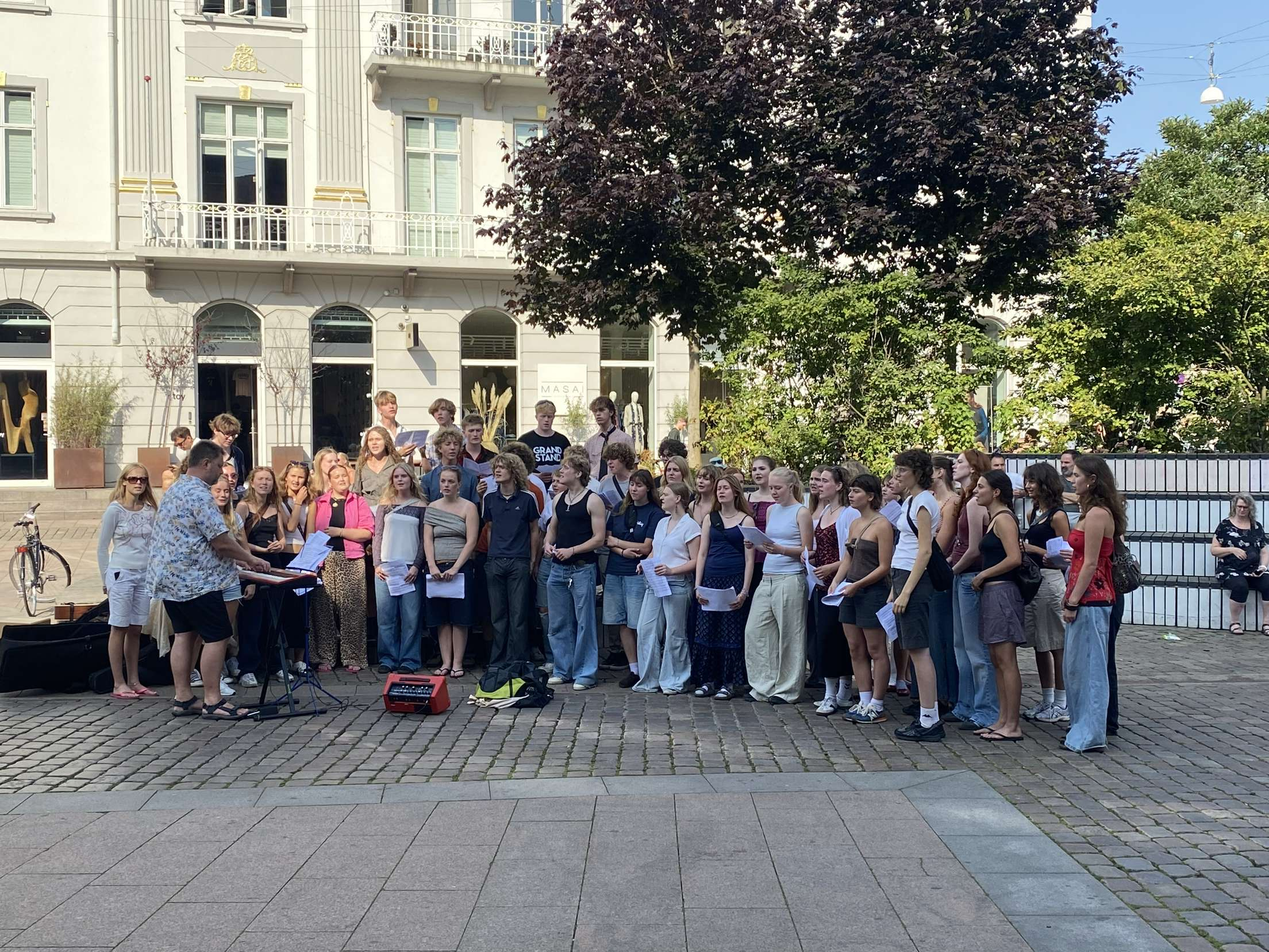
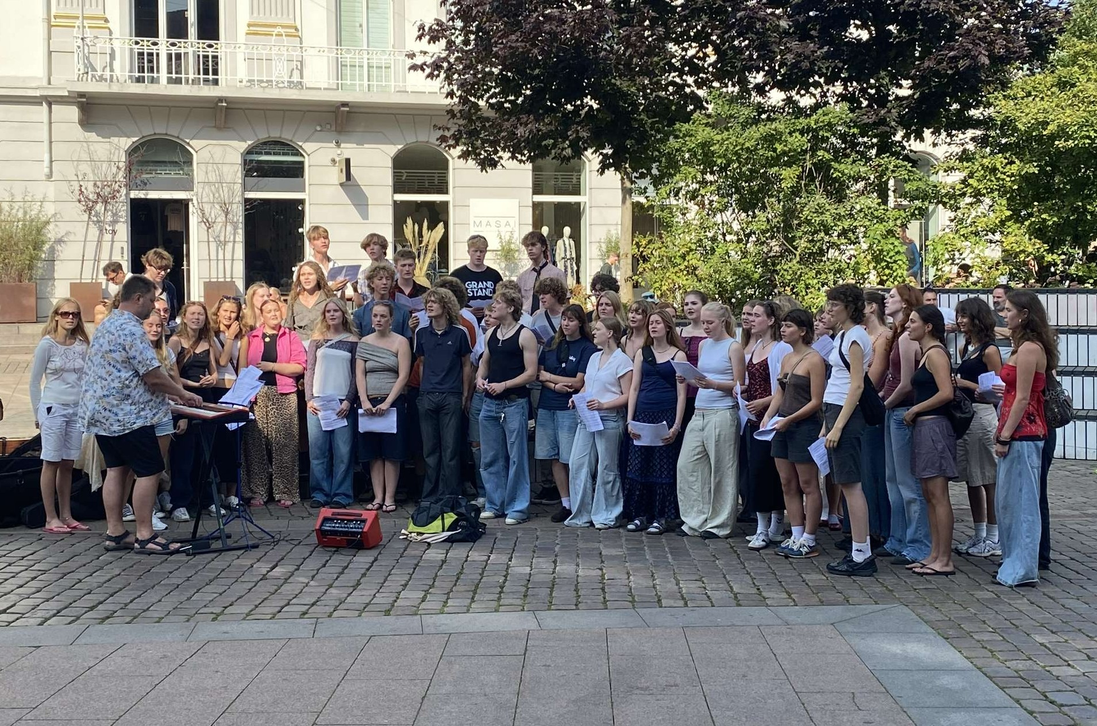
billeder, og små ændringer i koden

diff --git a/styles.css b/styles.css
@@ -18,8 +18,6 @@ nav:not(:first-of-type)
     padding: 10px 20px;
     background-image: linear-gradient(#e6f2fb, #86c0ef);
 
-
-
 }
 
 nav button {
@@ -29,7 +27,6 @@ nav button {
     background-color: rgb(103 182 255);
     border-block-style: groove;
     font-weight: bold;
-
 
 }
 
@@ -47,23 +44,74 @@ body {
     margin: 0px;
     background-image: linear-gradient(#e6f2fb);
     font-family: 'Inter', sans-serif;
-    @import url('https://googleapis.com');
 }
 
 main {
     padding-left: 20px;
     border: none;
 
-
 }
 
+.billeder {
+    display: flex;
+    flex-direction: column;
+    align-items: center;
+    text-align: center;
+    font-size: 1.8rem;
+}
 
-img {
+.student {
     display: block;
     margin-top: 10px;
-    width: 15%;
+    width: 35%;
+
 }
 
+.ec{
+    display: block;
+    margin-top: 1%;
+    width: 35%;
+}
+.bryllup {
+    display: block;
+    margin-top: 1%;
+    width: 35%;
+}
+
+.eleven-to {
+    display: block;
+    margin-top: 1%;
+    width: 35%;
+}
+
+.eleven-et {
+    display: block;
+    margin-top: 1%;
+    width: 35%;
+}
+
+.forårskoncert {
+    display: block;
+    margin-top: 1%;
+    width: 35%;
+}
+.århus-et {
+    display: block;
+    margin-top: 1%;
+    width: 35%;
+}
+
+.århus-to {
+    display: block;
+    margin-top: 1%;
+    width: 35%;
+}
+
+.århus-tre {
+    display: block;
+    margin-top: 1%;
+    width: 35%;
+}
 .mig {
     padding: 15px;
     font-size: 1.3rem;
@@ -227,4 +275,50 @@ margin-top: 1rem;
     max-width: 1000px;
     margin: 2rem auto;
     font-family: 'Inter', sans-serif;
+}
+
+@media screen and (max-width: 500px) {
+
+    main {
+        padding-left: 10px;
+        padding-right: 10px;
+    }
+
+    nav:not(:first-of-type) {
+        flex-direction: column;
+        align-items: stretch;
+        justify-content: center;
+        gap: 10px;
+        padding: 15px;
+    }
+
+    nav button {
+        width: 100%;
+        font-size: 16px;
+        padding: 12px;
+    }
+
+    .billeder{
+        flex-direction: column;
+        gap: 15px;
+    }
+
+    .student, .ec, .bryllup, .eleven-to, .eleven-et, .forårskoncert, .århus-et, .århus-to, .århus-tre {
+        width: 100%;
+        margin-right: 0;
+        margin-top: 5px;
+    }
+
+    .mig, .folkeskole, .gymnasium, .bakken, .cph, .projekter, .børnehave, .landmand, .tækker, .lærer {
+        width: 100%;
+        max-width: 100%;
+        box-sizing: border-box;
+        margin: 1rem 0;
+        font-size: 1.1rem;
+    }
+
+    .linje {
+        margin-top: 4rem;
+
+    }
 }

diff --git a/index.html b/index.html
@@ -4,10 +4,12 @@
 <head>
     <link rel="stylesheet" href="styles.css">
     <meta charset="UTF-8">
+    <meta name="viewport" content="width=device-width, initial-scale=1.0">
+    <title>Emma Sortkjærs portfolie</title>
+</head>
+<body>
     <nav>
-        <a href= "index.html" class="logo-link">Emma Sortkjærs portfolio</a>
-        <a href = >
-        </a>
+        <a href= "index.html" class="logo-link">Forside</a>
     </nav>
 
 
@@ -31,24 +33,20 @@
         </div>
     </nav>
 
-    <title>Emma Sortkjærs portfolie</title>
-</head>
-<body>
-<main><h1>Emma Sortkjærs portfolie</h1><header></header>
-    <img src="Emma_Student.jpg" />
 
-    <img scr="Emma_student1.jpg"/>
-
-
-
-
-
-    <p>Jeg hedder Emma, og jeg er 21 år gammel, og bor lige pt i Rødovre.
-        Jeg er født og opvokset i Sverige, hvor jeg boede i 11 år, og jeg kom først til Danmark i 2016.
-        Dog, er begge mine forældre danskere, men vi boede bare i Sverige.
-        Jeg interessere mig meget for musik, hvilket også vaer min strudieretning på gymnasiet.
-        <br>Jeg har fået min interesse for dette studie, pga min far. Han er nemlig datamatiker, og arbejder som projektleder inden for test.
-        Det vil jeg nemlign også gerne. Derfor passer denne uddannelse mig rigtig godt.  </p>
-
+<main>
+    <h1>Emma Elisabeth Sortkjærs portfolie</h1><header></header>
+    <div class="billeder">
+        <h2>Billeder</h2>
+    <img src="Emma_student2.jpg" class="student"/>
+    <img src="ec-student.jpeg" class="ec"/>
+    <img src="bryllup.jpg" class="bryllup"/>
+    <img src="7eleven-to.jpg" class="eleven-to"/>
+    <img src="7eleven.jpg" class="eleven-et"/>
+    <img src="forårskoncert.jpg" class="forårskoncert"/>
+    <img src="århus-et.jpg" class="århus-et"/>
+    <img src="århus-to.jpg" class="århus-to"/>
+    <img src="århus-tre.jpg" class="århus-tre"/>
+    </div>
 </main>
 </body>

diff --git a/intro.html b/intro.html
@@ -1,7 +1,7 @@
 <meta charset="UTF-8">
 <link rel="stylesheet" href="styles.css">
 <nav>
-    <a href= "index.html" class="logo-link">Emma Sortkjærs portfolio</a>
+    <a href= "index.html" class="logo-link">Forside</a>
     <a href = >
     </a>
 </nav>
@@ -34,10 +34,16 @@
     <img src="Emma_Student.jpg" />
     <section class="mig">
     <h2 class="intro">Lidt om mig:</h2>
-    <p>Jeg hedder Emma, og jeg er 21 år gammel, og bor lige pt i Rødovre.
+    <p>Jeg hedder Emma, og jeg er 21 år gammel, og jeg bor lige pt. i Rødovre.
         Jeg er født og opvokset i Sverige, hvor jeg boede i 11 år, og jeg kom først til Danmark i 2016.
-        Dog, er begge mine forældre danskere, men vi boede bare i Sverige.
-        Jeg interessere mig meget for musik, hvilket også vaer min strudieretning på gymnasiet.
+        Dog er begge mine forældre danskere, men vi boede bare i Sverige.
+        Jeg har en lillesøster, som er 1,5 år yngre end mig. Mine forældre er skilt,
+        og jeg plejede at bo hos dem, men da jeg skulle starte på studie, flyttede jeg hjem til min kusine.
+        Det gav bedre mening i forhold til placeringen og transport til mit studie.
+        Jeg interesserer mig meget for musik, hvilket også var min studieretning på gymnasiet.
+        <br>Jeg har fået min interesse for dette studie gennem min far. Han er nemlig datamatiker og arbejder som projektleder inden for test.
+        Det vil jeg nemlig også gerne arbejde med. Derfor passer denne uddannelse rigtig godt til mig.  </p>
+
         <br>Jeg har fået min interesse for dette studie, pga min far. Han er nemlig datamatiker, og arbejder som projektleder inden for test.
         Det vil jeg nemlign også gerne. Derfor passer denne uddannelse mig rigtig godt.  </p>
     </section>

diff --git a/arbejde.html b/arbejde.html
@@ -1,7 +1,7 @@
 <meta charset="UTF-8">
 <link rel="stylesheet" href="styles.css">
 <nav>
-    <a href= "index.html" class="logo-link">Emma Sortkjærs portfolio</a>
+    <a href= "index.html" class="logo-link">Forside</a>
     <a href = >
     </a>
 </nav>

diff --git a/kontakt.html b/kontakt.html
@@ -1,7 +1,7 @@
 <meta charset="UTF-8">
 <link rel="stylesheet" href="styles.css">
 <nav>
-    <a href= "index.html" class="logo-link">Emma Sortkjærs portfolio</a>
+    <a href= "index.html" class="logo-link">Forside</a>
     <a href = >
     </a>
 </nav>

diff --git a/projekter.html b/projekter.html
@@ -1,7 +1,7 @@
 <meta charset="UTF-8">
 <link rel="stylesheet" href="styles.css">
 <nav>
-    <a href= "index.html" class="logo-link">Emma Sortkjærs portfolio</a>
+    <a href= "index.html" class="logo-link">Forside</a>
     <a href = >
     </a>
 </nav>

diff --git a/skole.html b/skole.html
@@ -1,7 +1,7 @@
 <meta charset="UTF-8">
 <link rel="stylesheet" href="styles.css">
 <nav>
-    <a href= "index.html" class="logo-link">Emma Sortkjærs portfolio</a>
+    <a href= "index.html" class="logo-link">Forside</a>
     <a href = >
     </a>
 </nav>
